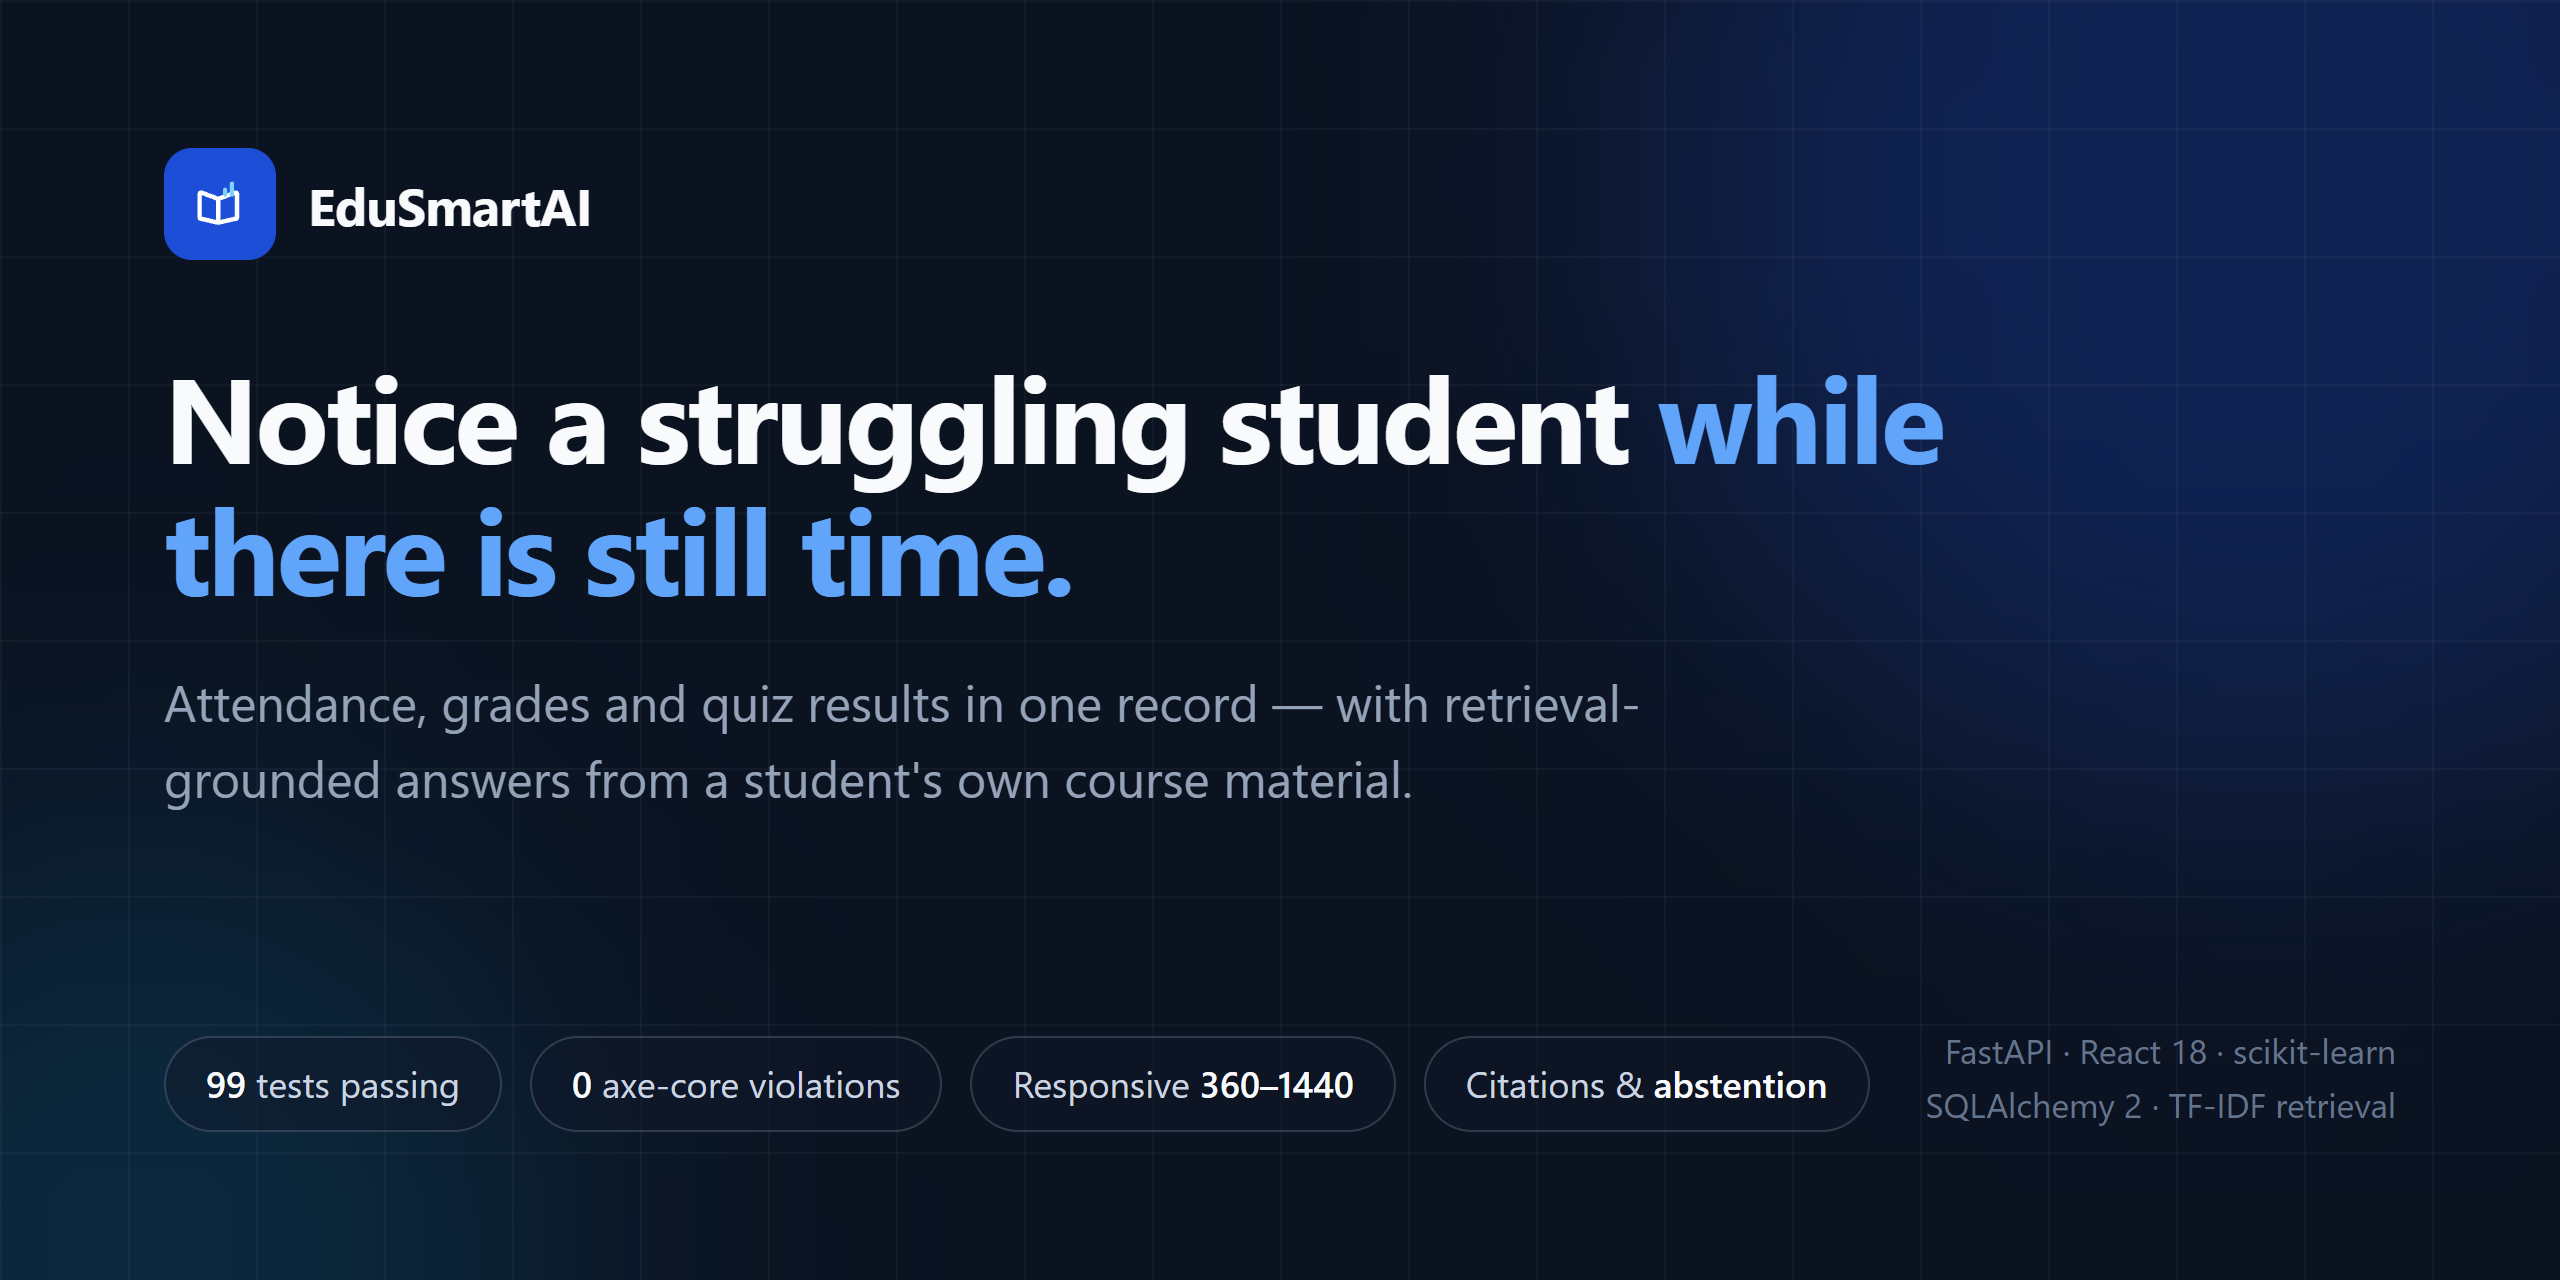
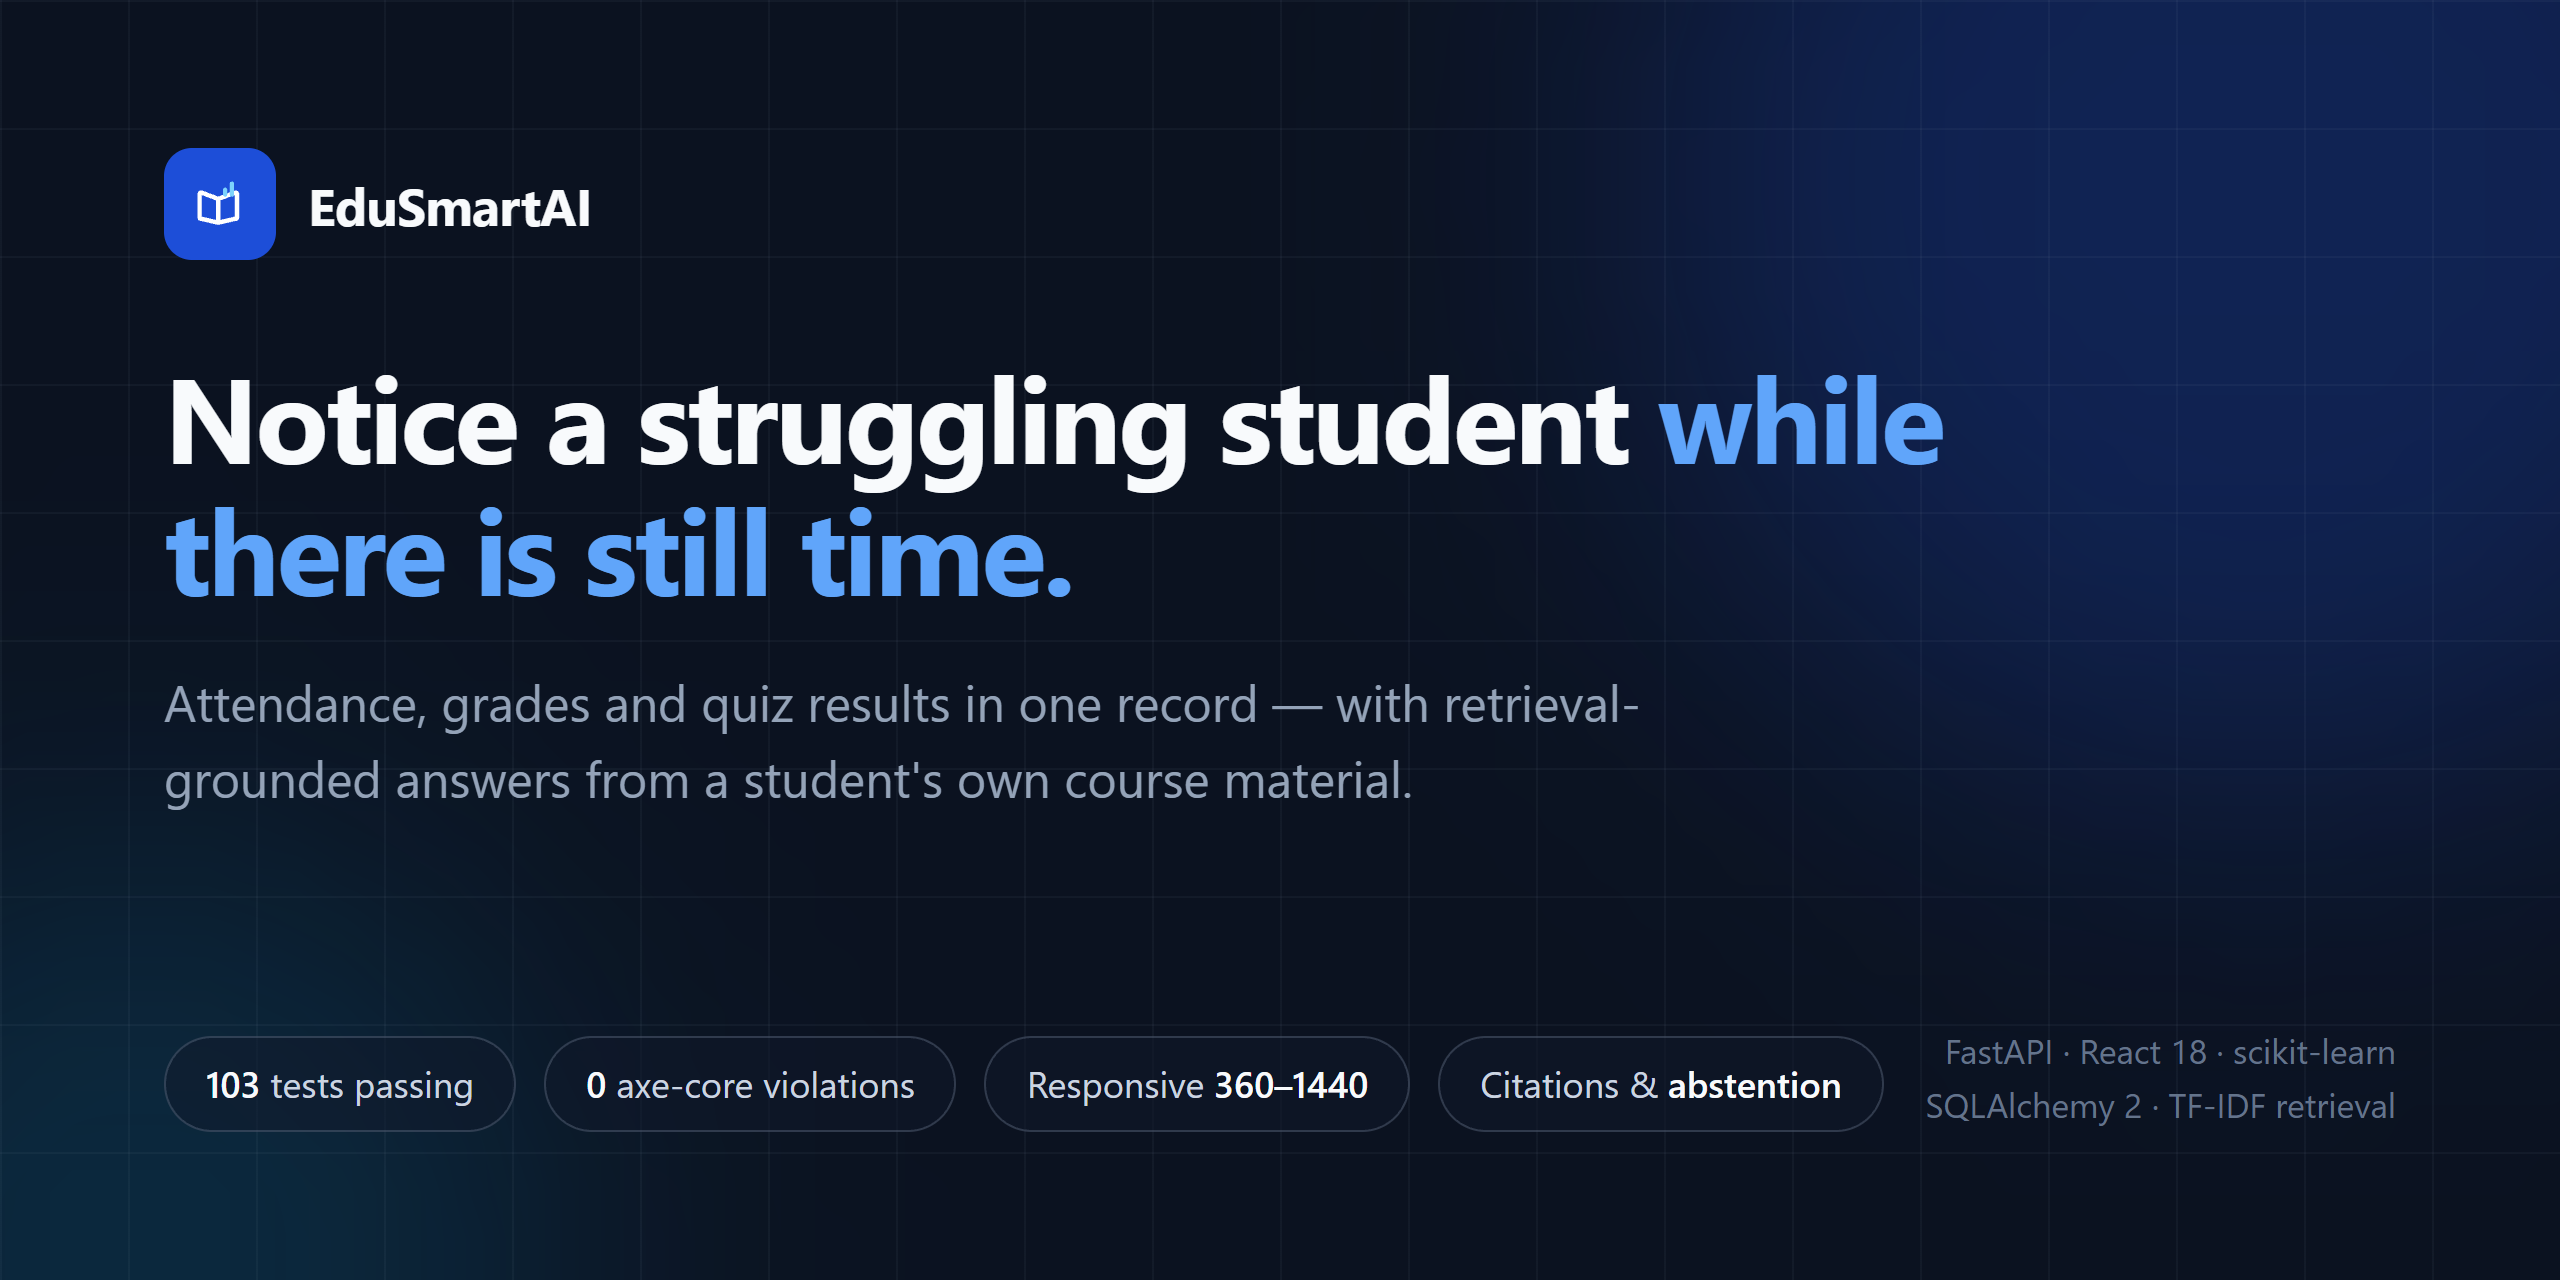
docs: sync public claims with the current verified state
Test count 99 -> 103 everywhere it appears: README, product
positioning, release handoff, and the social preview card (regenerated
from its committed HTML source).

Handoff SHA and the reproduce-this-release checkout updated to ae1231a.

Removed 'with a live demo' from the 10-second positioning line. Nothing
is deployed, so it was a claim the repository does not support — the
same standard applied to the PostgreSQL mention on the social card.

Changed region(s): [[0.2188, 0.8125, 0.7188, 0.875], [0.0625, 0.8438, 0.1875, 0.875]]

diff --git a/.github/assets/social-preview.source.html b/.github/assets/social-preview.source.html
@@ -61,7 +61,7 @@
   </p>
 
   <div class="facts">
-    <div class="chip"><b>99</b> tests passing</div>
+    <div class="chip"><b>103</b> tests passing</div>
     <div class="chip"><b>0</b> axe-core violations</div>
     <div class="chip">Responsive <b>360–1440</b></div>
     <div class="chip">Citations &amp; <b>abstention</b></div>

diff --git a/docs/release-handoff.md b/docs/release-handoff.md
@@ -8,9 +8,9 @@ appear here, only variable names.
 | | |
 |---|---|
 | Branch | `release/v1-hardening` |
-| HEAD (local == remote) | `a8e25ea` |
+| HEAD (local == remote) | `ae1231a` |
 | Pull request | https://github.com/bahaaed07706/EduSmartAI/pull/1 (open, mergeable) |
-| CI | green — 99 tests, ruff clean, build compiles |
+| CI | green — 103 tests, ruff clean, build compiles |
 | `main` | unchanged; merge blocked pending approval |
 | Deployment | not executed — no platform account connected |
 
@@ -111,7 +111,7 @@ curl https://<api>/health     # liveness
 curl https://<api>/ready      # database + models
 
 # Tests
-cd backend && python -m pytest -q          # expect 99 passed
+cd backend && python -m pytest -q          # expect 103 passed
 cd backend && python -m ruff check .
 cd edusmartai-frontend && CI=true npm run build
 
@@ -151,7 +151,7 @@ dashboard for an immediate rollback while the revert propagates.
 
 | Check | Result |
 |---|---|
-| Backend tests | 99 passed (Windows and ubuntu-latest) |
+| Backend tests | 103 passed (Windows and ubuntu-latest) |
 | ruff | clean |
 | Production build | compiles, 218 kB gzip |
 | axe-core WCAG 2.0/2.1/2.2 A+AA | 0 violations, 6 pages × 3 viewports |
@@ -191,7 +191,7 @@ dashboard for an immediate rollback while the revert propagates.
 ```bash
 git clone https://github.com/bahaaed07706/EduSmartAI.git
 cd EduSmartAI/BAHAAW
-git checkout a8e25ea
+git checkout ae1231a
 ```
 
 Then follow Quick start in [README.md](../README.md). Fresh-clone

diff --git a/docs/product-positioning.md b/docs/product-positioning.md
@@ -108,12 +108,12 @@ contacting or not contacting a student. This is documented in
 
 **Within 10 seconds** — anyone landing on the repository should know: this is an
 academic management platform with retrieval-grounded AI assistance and academic
-risk prediction, built as a graduation project, with a live demo.
+risk prediction, built as a graduation project, with every claim evidenced.
 
 **Within 30 seconds:**
 
 - *Technical recruiter* — real stack (FastAPI, React, scikit-learn), real
-  verification (99 tests, CI green, 0 accessibility violations), and evidence
+  verification (103 tests, CI green, 0 accessibility violations), and evidence
   the author understands security rather than only features.
 - *Software engineer* — the architecture diagram, and that authorization is
   enforced per resource rather than per role.

diff --git a/README.md b/README.md
@@ -208,7 +208,7 @@ Every number here comes from a command in this repository.
 
 | Check | Result |
 |---|---|
-| Backend tests | 99 passing, on Windows and Linux |
+| Backend tests | 103 passing, on Windows and Linux |
 | Lint (ruff) | clean |
 | Production build | compiles |
 | Accessibility (axe-core, WCAG 2.0/2.1/2.2 A+AA) | **0 violations**, 6 pages × 3 viewports |
